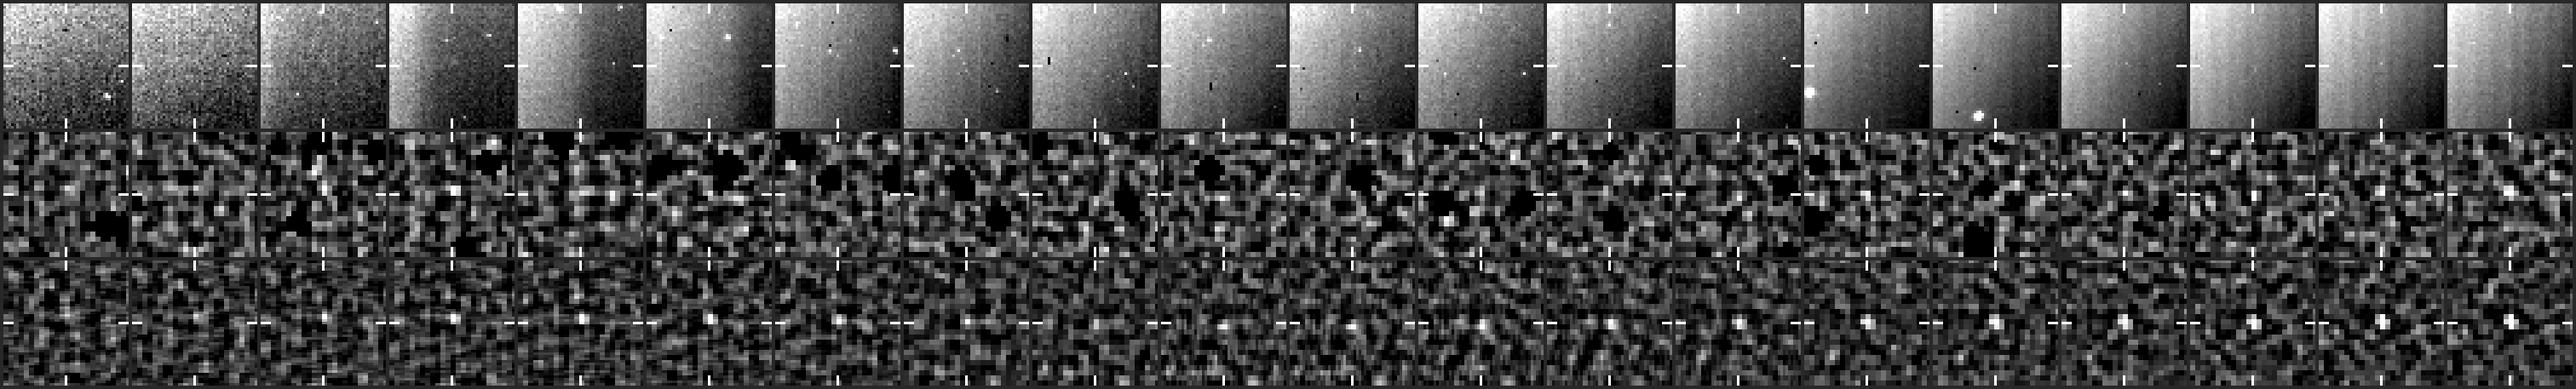
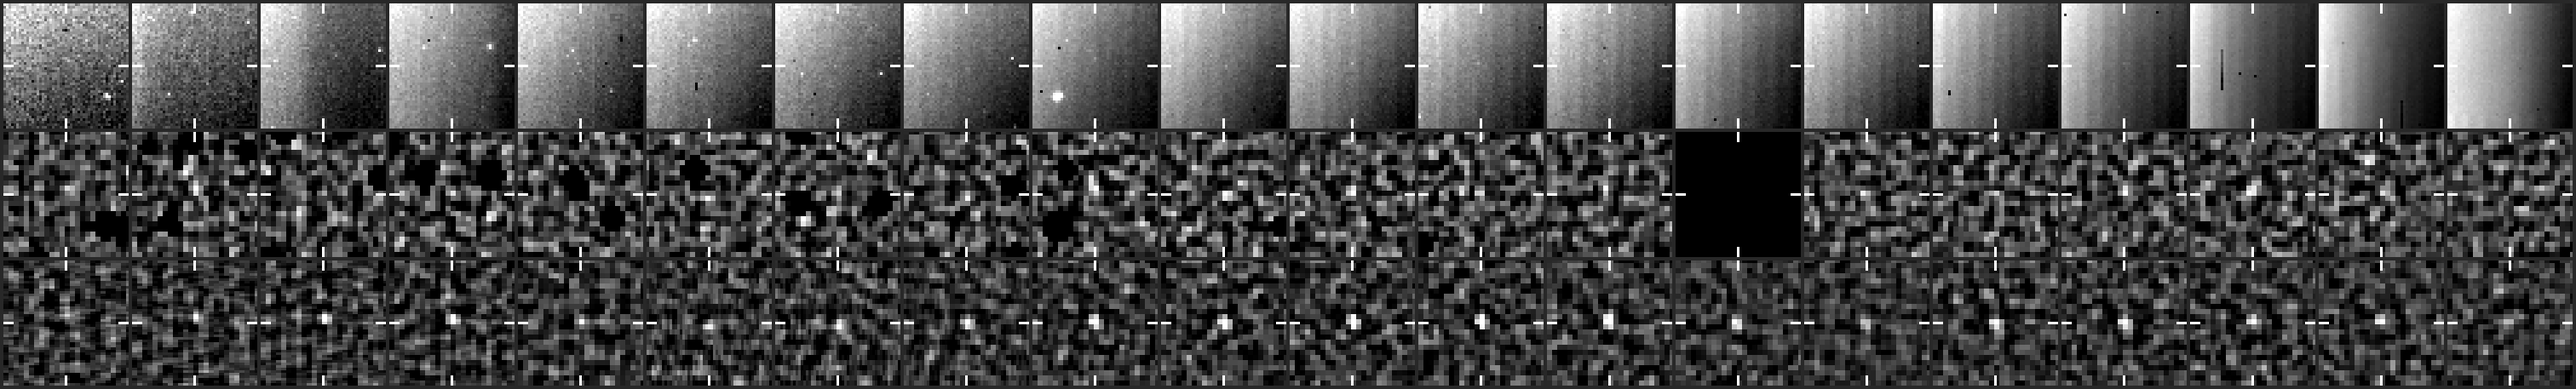
Live find 20261111T1900_1562_1786: hunter's package

diff --git a/results/ccor1/live-finds/20261111T1900_1562_1786/README.md b/results/ccor1/live-finds/20261111T1900_1562_1786/README.md
@@ -1,10 +1,10 @@
 # CCOR-1 candidate 20261111T1900_1562_1786
 
-**27 frames, 2026-11-11 19:00 to 2026-11-12 02:45 UTC, peak 16 sigma, brightening.**
+**51 frames, 2026-11-11 19:00 to 2026-11-12 10:15 UTC, peak 16 sigma, steady.**
 
 - Detected by the kreutz shift-and-stack search (8 frames stacked along the fitted motion); status candidate, alert tier since 02:45 UTC.
-- Motion (-6.1, -5.2) px per 15-min frame, 8.0 px/frame.
-- Last position 768 px from the Sun at position angle -61 deg, heading 21 deg off the Sun direction (Kreutz comets in CCOR-1 arrive from the lower right, position angle -10 to -45 deg, and head within ~20 deg of the Sun).
+- Motion (-6.2, -5.6) px per 15-min frame, 8.4 px/frame.
+- Last position 525 px from the Sun at position angle -70 deg, heading 28 deg off the Sun direction (Kreutz comets in CCOR-1 arrive from the lower right, position angle -10 to -45 deg, and head within ~20 deg of the Sun).
 - Matches Chris Wage's CCOR-1 report `report_cw_20261111160443` (posted 2026-11-11T21:04+00:00; it came 6.1 h before our alert; we were following it 1.2 h before the post).
 
 ## Movie
@@ -62,6 +62,30 @@ The last column is what the track became here on that frame: spark (two bright h
 | 2026-11-12 | 0215 | 1384 | 1634 | 14.3 |  |
 | 2026-11-12 | 0230 | 1378 | 1628 | 13.6 |  |
 | 2026-11-12 | 0245 | 1372 | 1622 | 16.2 | ALERT |
+| 2026-11-12 | 0300 | 1366 | 1618 | 14.4 |  |
+| 2026-11-12 | 0315 | 1360 | 1612 | 13.7 |  |
+| 2026-11-12 | 0330 | 1354 | 1606 | 14.2 |  |
+| 2026-11-12 | 0345 | 1348 | 1600 | 12.7 |  |
+| 2026-11-12 | 0400 | 1342 | 1596 | 10.3 |  |
+| 2026-11-12 | 0415 | 1334 | 1588 | 9.5 |  |
+| 2026-11-12 | 0515 | 1310 | 1564 | 7.3 |  |
+| 2026-11-12 | 0530 | 1304 | 1560 | 6.9 |  |
+| 2026-11-12 | 0545 | 1298 | 1554 | 6.1 |  |
+| 2026-11-12 | 0600 | 1290 | 1548 | 6.0 |  |
+| 2026-11-12 | 0615 | 1282 | 1542 | 7.1 |  |
+| 2026-11-12 | 0630 | 1278 | 1536 | 7.8 |  |
+| 2026-11-12 | 0645 | 1270 | 1530 | 8.9 |  |
+| 2026-11-12 | 0700 | 1264 | 1524 | 12.4 |  |
+| 2026-11-12 | 0715 | 1258 | 1518 | 12.1 |  |
+| 2026-11-12 | 0730 | 1252 | 1512 | 11.1 |  |
+| 2026-11-12 | 0745 | 1246 | 1506 | 10.8 |  |
+| 2026-11-12 | 0800 | 1240 | 1500 | 10.5 |  |
+| 2026-11-12 | 0815 | 1232 | 1494 | 9.6 |  |
+| 2026-11-12 | 0830 | 1228 | 1488 | 11.3 |  |
+| 2026-11-12 | 0845 | 1222 | 1482 | 8.9 |  |
+| 2026-11-12 | 0915 | 1208 | 1468 | 8.9 |  |
+| 2026-11-12 | 0945 | 1196 | 1454 | 8.1 |  |
+| 2026-11-12 | 1015 | 1182 | 1442 | 8.1 |  |
 
 Form layout (HHMM x y):
 
@@ -93,6 +117,30 @@ Form layout (HHMM x y):
 0215 1384 1634
 0230 1378 1628
 0245 1372 1622
+0300 1366 1618
+0315 1360 1612
+0330 1354 1606
+0345 1348 1600
+0400 1342 1596
+0415 1334 1588
+0515 1310 1564
+0530 1304 1560
+0545 1298 1554
+0600 1290 1548
+0615 1282 1542
+0630 1278 1536
+0645 1270 1530
+0700 1264 1524
+0715 1258 1518
+0730 1252 1512
+0745 1246 1506
+0800 1240 1500
+0815 1232 1494
+0830 1228 1488
+0845 1222 1482
+0915 1208 1468
+0945 1196 1454
+1015 1182 1442
 ```
 
 ## Movie frames
@@ -101,41 +149,79 @@ Sigma inside the ring on the fitted position vs the brightest 0.1% of the whole 
 
 | frame | ring | tail | |
 |---|---|---|---|
-| 20261111T180025 | 4.8 | 5.2 |  |
-| 20261111T181525 | 6.9 | 5.2 |  |
+| 20261111T180025 | 4.8 | 5.0 |  |
+| 20261111T181525 | 6.9 | 5.0 |  |
 | 20261111T183025 | 7.5 | 5.0 |  |
-| 20261111T184525 | 7.5 | 5.2 |  |
-| 20261111T190025 | 8.9 | 5.1 | hit |
-| 20261111T191525 | 9.4 | 5.1 | hit |
-| 20261111T193025 | 9.5 | 5.0 | hit |
-| 20261111T194525 | 9.0 | 5.1 | hit |
-| 20261111T200025 | 8.8 | 5.3 | hit |
-| 20261111T201525 | 9.9 | 5.2 | hit |
-| 20261111T203025 | 10.7 | 5.1 | hit |
-| 20261111T204525 | 11.9 | 5.1 | hit |
-| 20261111T210025 | 9.5 | 5.2 |  |
-| 20261111T211525 | 8.3 | 5.0 |  |
-| 20261111T213025 | 5.9 | 5.3 |  |
-| 20261111T214525 | 7.9 | 5.2 |  |
-| 20261111T220025 | 7.0 | 5.2 |  |
-| 20261111T221525 | 6.5 | 5.2 | hit |
-| 20261111T223025 | 8.4 | 5.4 | hit |
-| 20261111T224525 | 8.6 | 5.4 | hit |
-| 20261111T230025 | 10.2 | 5.4 | hit |
-| 20261111T231525 | 11.0 | 5.5 | hit |
-| 20261111T233025 | 12.0 | 5.4 | hit |
-| 20261111T234525 | 13.3 | 5.4 | hit |
-| 20261112T000025 | 12.7 | 5.4 | hit |
-| 20261112T001525 | 13.1 | 5.3 | hit |
-| 20261112T003025 | 11.7 | 5.4 | hit |
-| 20261112T004525 | 10.8 | 5.4 | hit |
-| 20261112T010025 | 11.2 | 5.4 | hit |
-| 20261112T011525 | 13.1 | 5.3 | hit |
-| 20261112T013025 | 14.7 | 5.1 | hit |
-| 20261112T014525 | 15.9 | 5.2 | hit |
-| 20261112T020025 | 16.1 | 5.3 | hit |
-| 20261112T021525 | 16.8 | 5.3 | hit |
-| 20261112T023025 | 16.8 | 5.2 | hit |
-| 20261112T024525 | 19.2 | 5.3 | hit |
+| 20261111T184525 | 7.5 | 4.9 |  |
+| 20261111T190025 | 8.9 | 5.0 | hit |
+| 20261111T191525 | 9.4 | 5.0 | hit |
+| 20261111T193025 | 9.5 | 4.9 | hit |
+| 20261111T194525 | 9.0 | 4.9 | hit |
+| 20261111T200025 | 8.8 | 5.0 | hit |
+| 20261111T201525 | 9.9 | 5.1 | hit |
+| 20261111T203025 | 10.7 | 5.0 | hit |
+| 20261111T204525 | 11.9 | 5.0 | hit |
+| 20261111T210025 | 9.5 | 5.0 |  |
+| 20261111T211525 | 8.3 | 4.9 |  |
+| 20261111T213025 | 5.9 | 5.1 |  |
+| 20261111T214525 | 7.9 | 5.0 |  |
+| 20261111T220025 | 7.3 | 5.0 |  |
+| 20261111T221525 | 6.9 | 5.0 | hit |
+| 20261111T223025 | 8.4 | 5.1 | hit |
+| 20261111T224525 | 8.6 | 5.1 | hit |
+| 20261111T230025 | 10.2 | 5.1 | hit |
+| 20261111T231525 | 11.0 | 5.2 | hit |
+| 20261111T233025 | 12.0 | 5.1 | hit |
+| 20261111T234525 | 13.3 | 5.1 | hit |
+| 20261112T000025 | 12.7 | 5.1 | hit |
+| 20261112T001525 | 13.1 | 5.1 | hit |
+| 20261112T003025 | 11.7 | 5.2 | hit |
+| 20261112T004525 | 10.8 | 5.1 | hit |
+| 20261112T010025 | 11.2 | 5.0 | hit |
+| 20261112T011525 | 13.1 | 5.0 | hit |
+| 20261112T013025 | 14.7 | 5.0 | hit |
+| 20261112T014525 | 15.9 | 5.0 | hit |
+| 20261112T020025 | 16.1 | 5.1 | hit |
+| 20261112T021525 | 16.8 | 5.1 | hit |
+| 20261112T023025 | 16.8 | 5.0 | hit |
+| 20261112T024525 | 19.2 | 5.1 | hit |
+| 20261112T030025 | 18.4 | 5.0 | hit |
+| 20261112T031525 | 17.7 | 5.1 | hit |
+| 20261112T033025 | 16.5 | 5.1 | hit |
+| 20261112T034525 | 15.2 | 5.1 | hit |
+| 20261112T040025 | 13.2 | 5.3 | hit |
+| 20261112T041525 | 12.3 | 5.3 | hit |
+| 20261112T043025 | 11.0 | 4.8 |  |
+| 20261112T044525 | 8.7 | 4.5 |  |
+| 20261112T050025 | 8.1 | 4.1 |  |
+| 20261112T051525 | 7.6 | 4.1 | hit |
+| 20261112T053025 | 6.7 | 4.2 | hit |
+| 20261112T054525 | 5.7 | 4.1 | hit |
+| 20261112T060025 | 8.4 | 4.1 | hit |
+| 20261112T061525 | 8.3 | 4.1 | hit |
+| 20261112T063025 | 9.8 | 4.4 | hit |
+| 20261112T064525 | 11.4 | 4.9 | hit |
+| 20261112T070025 | 13.5 | 5.2 | hit |
+| 20261112T071525 | 13.8 | 5.1 | hit |
+| 20261112T073025 | 14.7 | 5.2 | hit |
+| 20261112T074525 | 15.2 | 5.2 | hit |
+| 20261112T080025 | 13.4 | 5.2 | hit |
+| 20261112T081525 | 12.2 | 5.2 | hit |
+| 20261112T083025 | 12.5 | 5.3 | hit |
+| 20261112T084525 | 10.2 | 5.1 | hit |
+| 20261112T090025 | 8.7 | 5.2 |  |
+| 20261112T091525 | 9.2 | 5.2 | hit |
+| 20261112T093025 | 8.2 | 5.3 |  |
+| 20261112T094525 | 6.9 | 5.2 | hit |
+| 20261112T100025 | 6.2 | 5.3 |  |
+| 20261112T101525 | 5.9 | 5.4 | hit |
+| 20261112T103025 | 4.9 | 5.3 |  |
+| 20261112T104525 | 6.2 | 5.2 |  |
+| 20261112T110025 | 5.7 | 5.3 |  |
+| 20261112T111525 | 3.9 | 5.3 |  |
+| 20261112T113025 | 5.1 | 5.1 |  |
+| 20261112T114525 | 3.4 | 5.3 |  |
+| 20261112T120025 | 4.1 | 5.3 |  |
+| 20261112T121525 | 3.8 | 5.3 |  |
 
-*Written 2026-11-12 03:09 UTC.*
+*Written 2026-11-12 12:53 UTC.*
